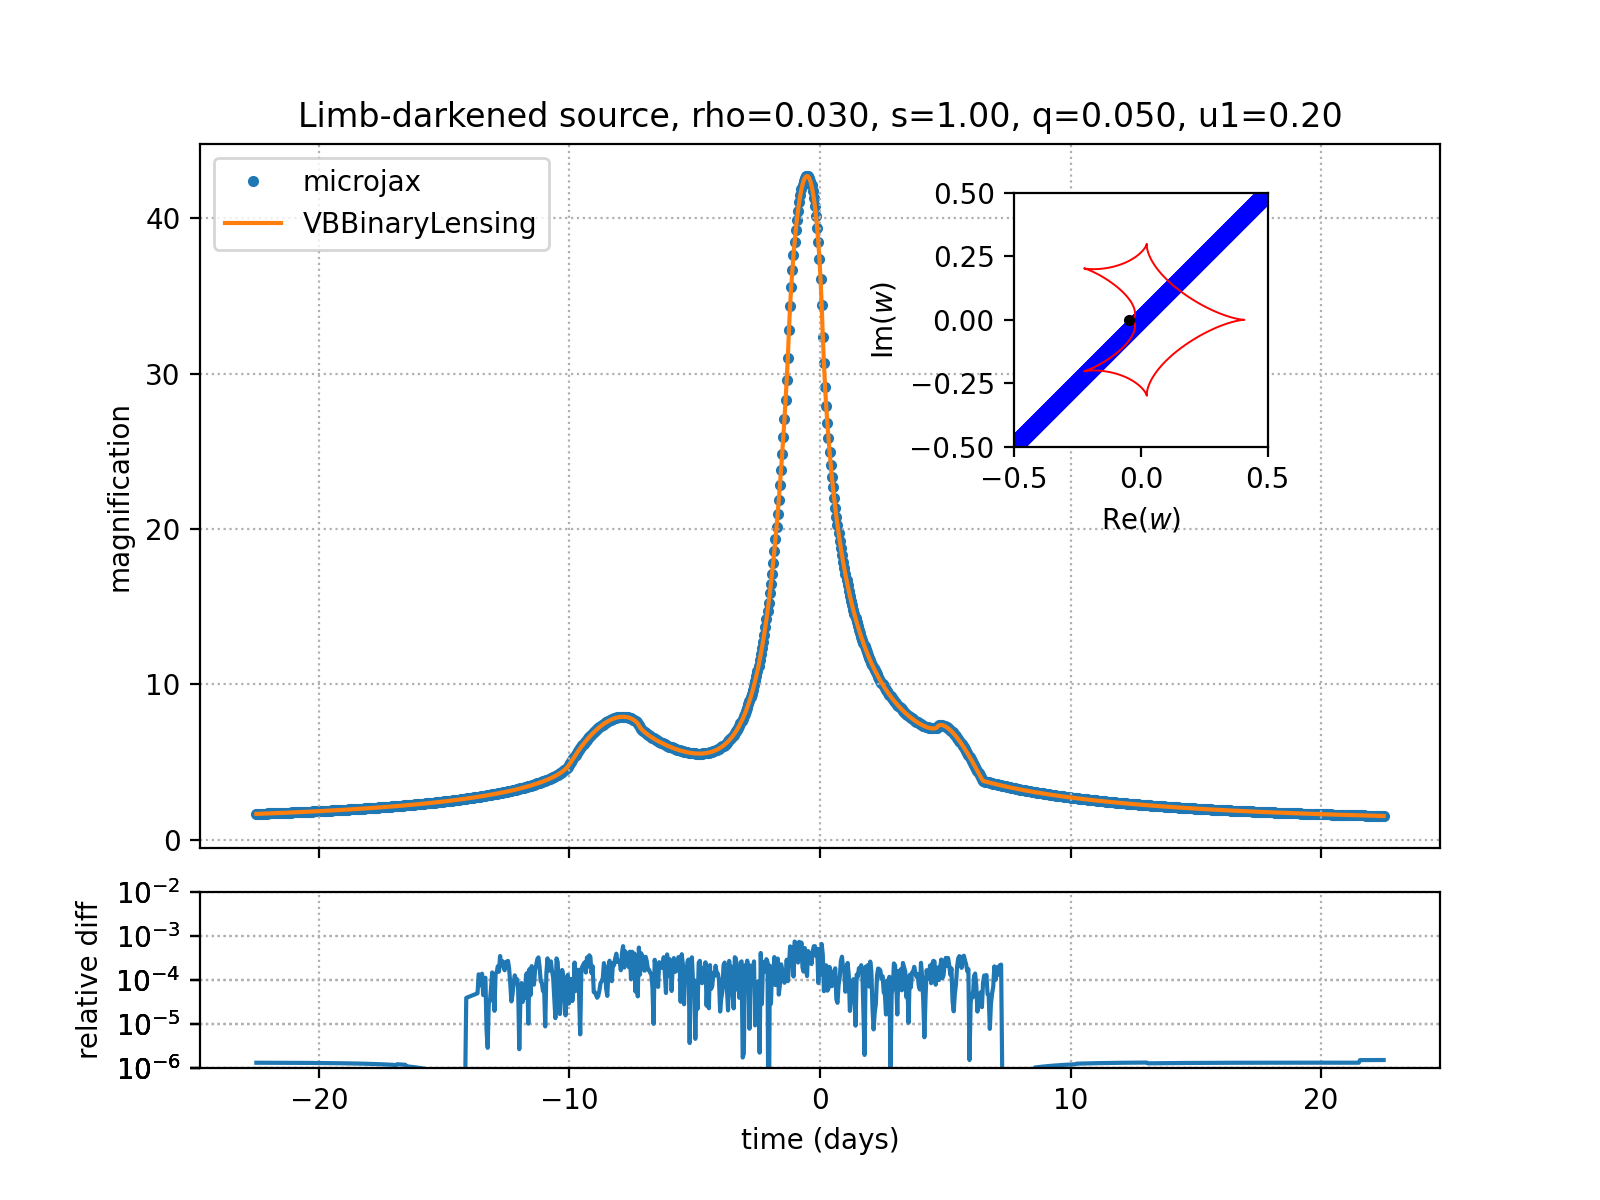
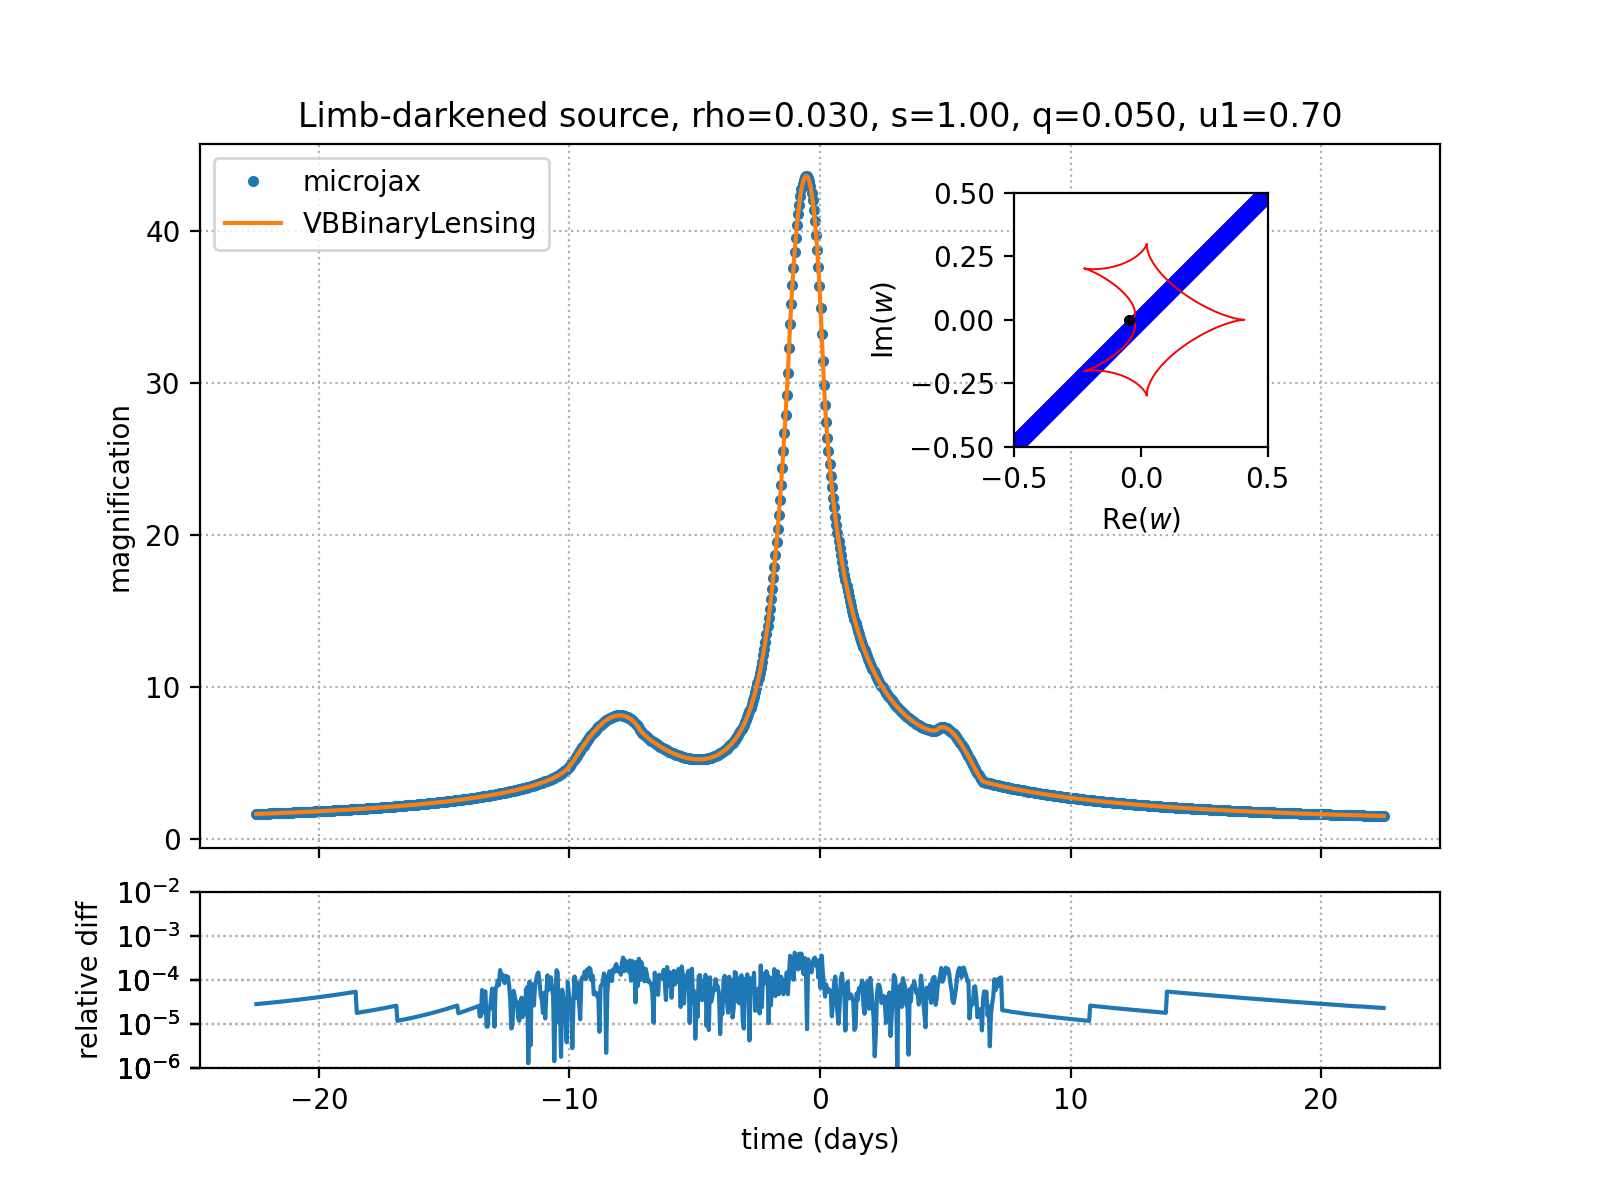
u1 added in limb-dark

diff --git a/src/microjax/inverse_ray/lightcurve.py b/src/microjax/inverse_ray/lightcurve.py
@@ -170,7 +170,7 @@ def mag_binary(
 
     # Boolean mask: False indicates that an inverse-ray evaluation is required.
     z, z_mask = _images_point_source(w_points_shifted, nlenses=nlenses, a=a, e1=e1)
-    mu_multi, delta_mu_multi = mag_hexadecapole(z, z_mask, rho, nlenses=nlenses, **_params)
+    mu_multi, delta_mu_multi = mag_hexadecapole(z, z_mask, rho, nlenses=nlenses, u1=u1, **_params)
     test1 = _caustics_proximity_test(w_points_shifted, z, z_mask, rho, delta_mu_multi, nlenses=nlenses,  **_params)
     test2 = _planetary_caustic_test(w_points_shifted, rho, **_params)
     test = jnp.where(q < 0.01, test1 & test2, test1)
@@ -330,7 +330,7 @@ def mag_triple(
     w_points_shifted = w_points - x_cm
     
     z, z_mask = _images_point_source(w_points_shifted, nlenses=nlenses, **_params) 
-    mu_multi, delta_mu_multi = mag_hexadecapole(z, z_mask, rho, nlenses=nlenses, **_params)
+    mu_multi, delta_mu_multi = mag_hexadecapole(z, z_mask, rho, nlenses=nlenses, u1=u1, **_params)
     test = jnp.zeros_like(w_points).astype(jnp.bool_)
 
     if u1 == 0.0:

diff --git a/example/compare-vbbl/compare_binary_limb_dark.py b/example/compare-vbbl/compare_binary_limb_dark.py
@@ -13,7 +13,7 @@ t0 = 0.0
 u0 = 0.0
 rho = 0.03
 nlenses = 2
-u1 = 0.2
+u1 = 0.7
 
 a = 0.5 * s
 e1 = q / (1.0 + q)
